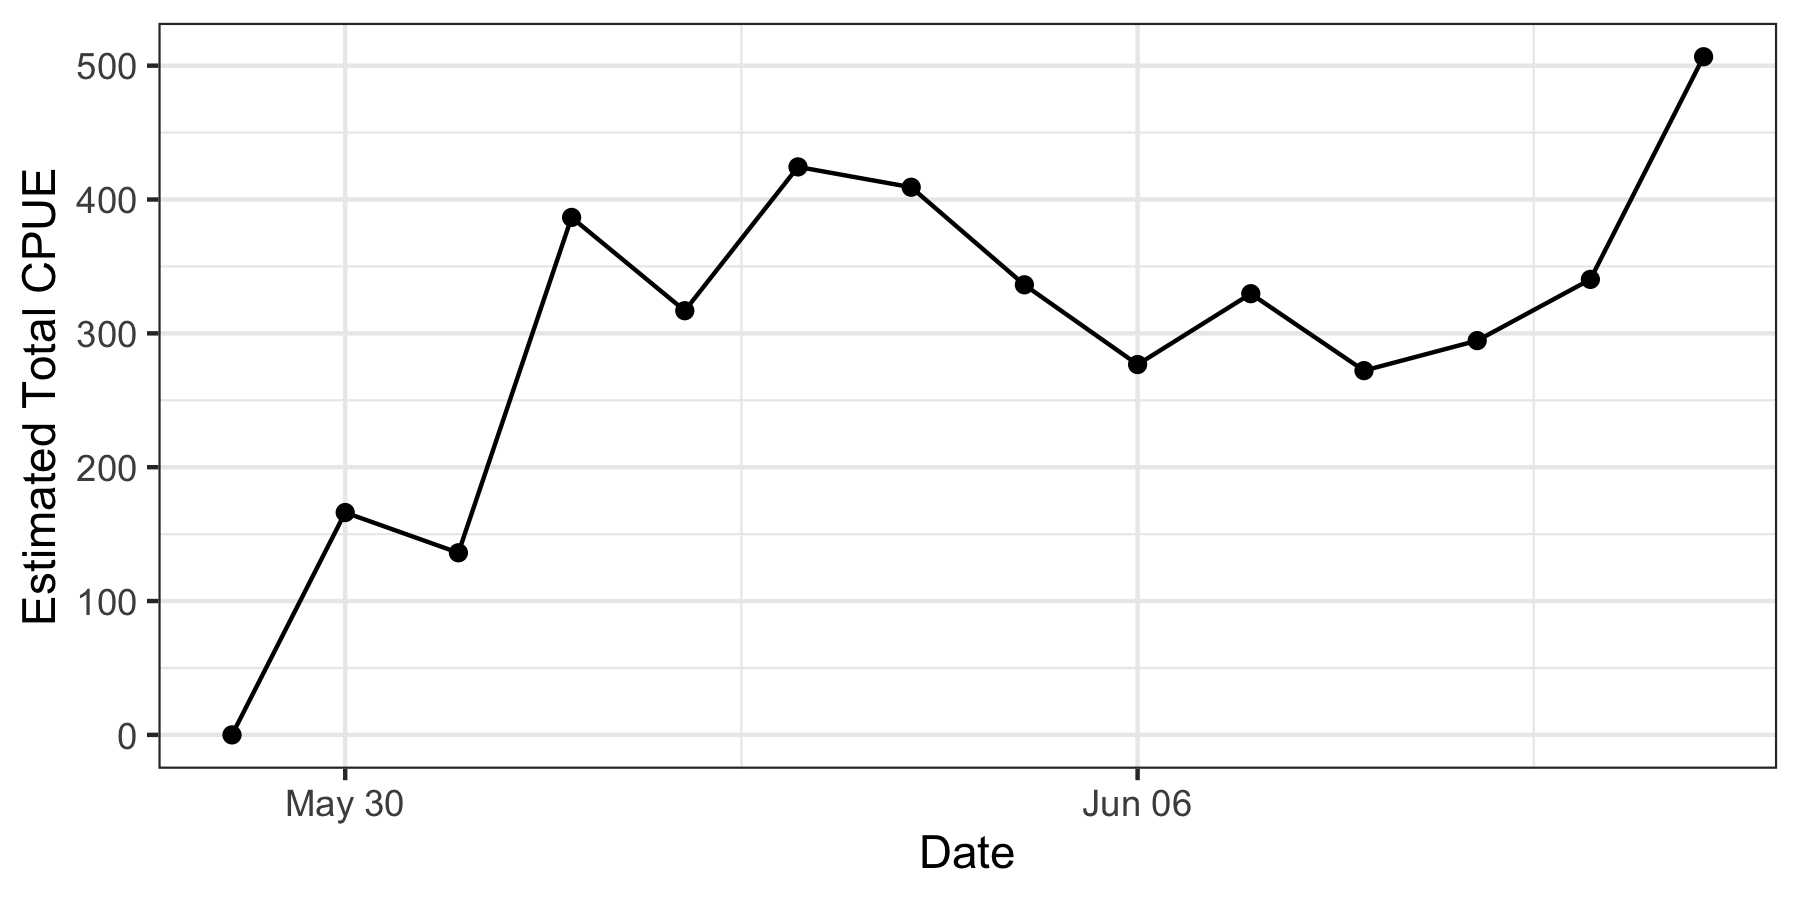
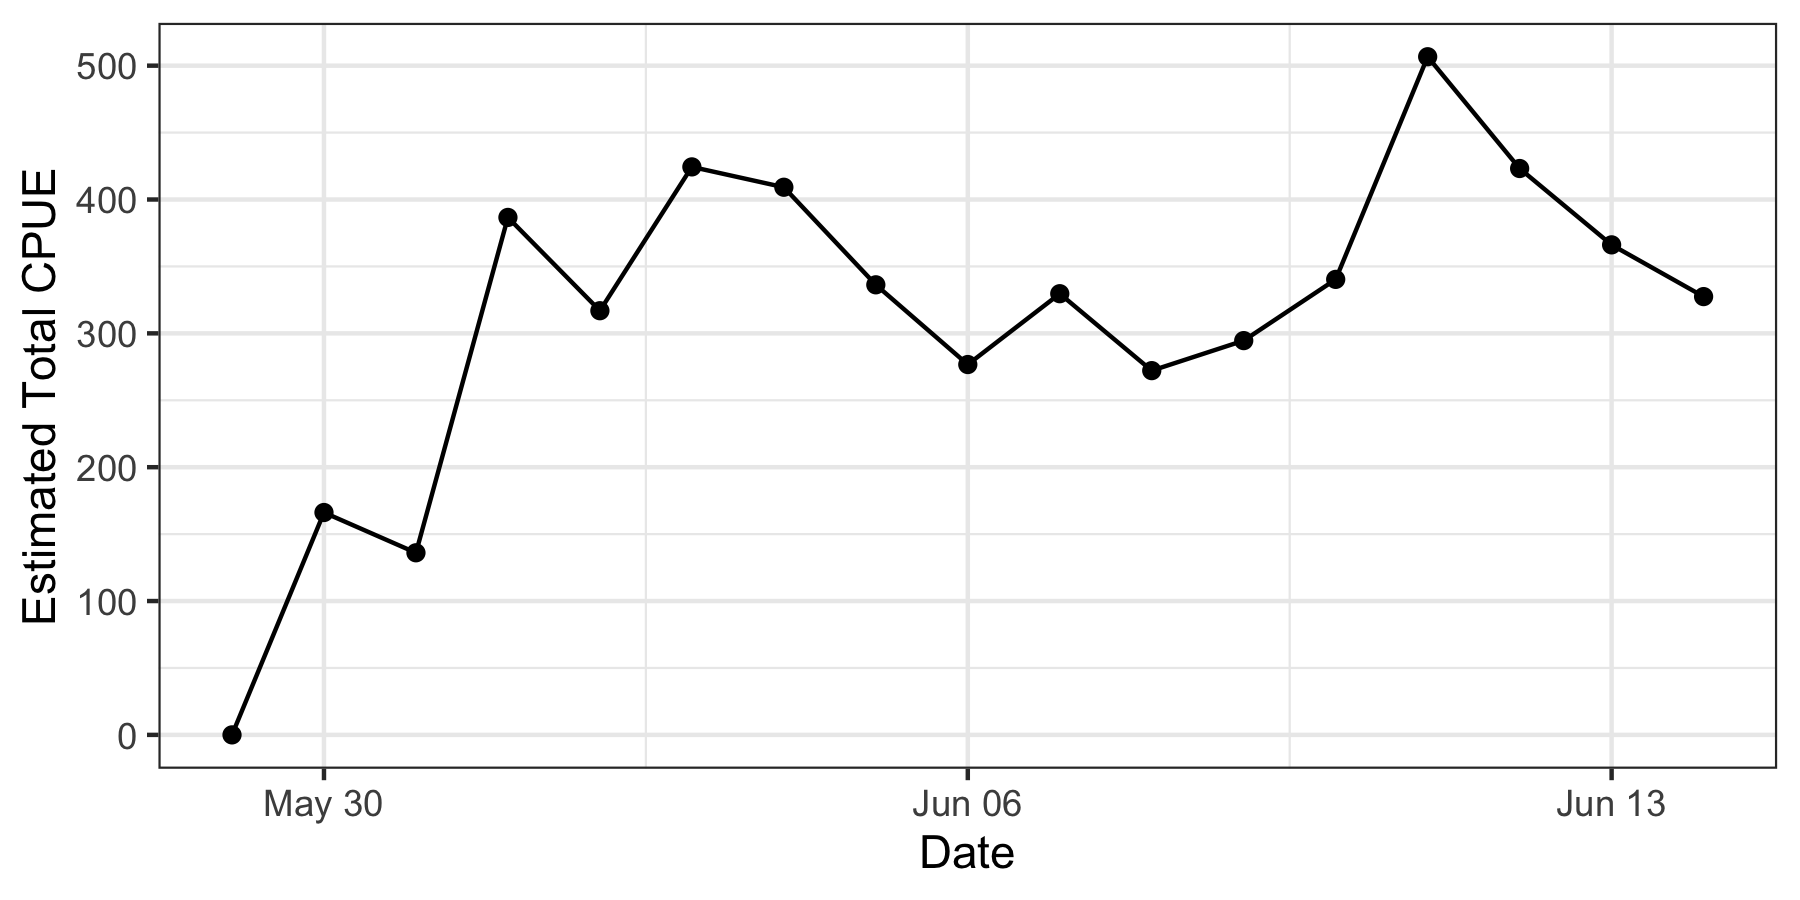
Update for June 15th

diff --git a/README.md b/README.md
@@ -4,8 +4,38 @@
 Data, code, and output for the 2020 operational forecast of Yukon River
 Chinook salmon run timing.
 
-Previous years
---------------
+Predictions
+-----------
+
+<table>
+<thead>
+<tr class="header">
+<th>% of Run</th>
+<th>Day</th>
+</tr>
+</thead>
+<tbody>
+<tr class="odd">
+<td>15%</td>
+<td>June 14</td>
+</tr>
+<tr class="even">
+<td>25%</td>
+<td>June 16</td>
+</tr>
+<tr class="odd">
+<td>50%</td>
+<td>June 22</td>
+</tr>
+</tbody>
+</table>
+
+Plots
+-----
+
+![](daily_forecast/figures/daily_forecast.png)
+
+![](daily_forecast/figures/final_cpue.png) \#\# Previous years
 
 -   <a href="https://github.com/amoeba/2019-yukon-forecasting" class="uri">https://github.com/amoeba/2019-yukon-forecasting</a>
 -   <a href="https://github.com/amoeba/2018-yukon-forecasting" class="uri">https://github.com/amoeba/2018-yukon-forecasting</a>
